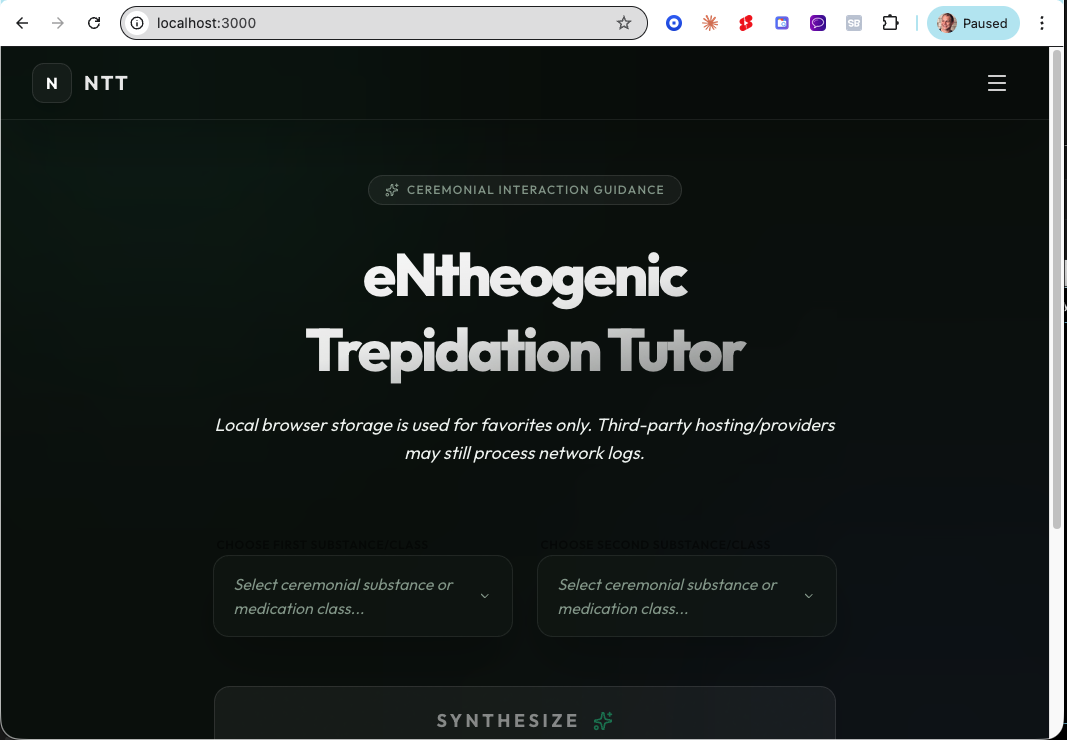
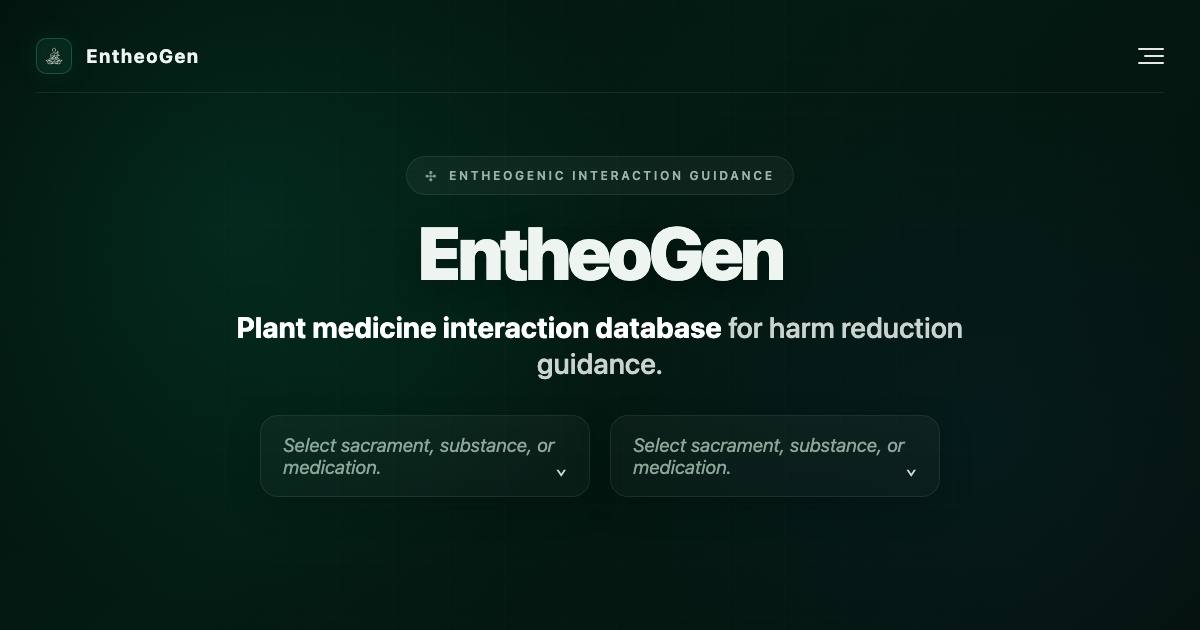
Refresh landing copy and SEO preview

diff --git a/src/App.tsx b/src/App.tsx
@@ -146,10 +146,10 @@ function SearchableSelect({
 
   return (
     <div className="space-y-2 relative" ref={containerRef}>
-      <label id={labelId} className="text-xs font-semibold uppercase tracking-wider text-black/50 ml-1">
+      <label id={labelId} className="ml-1 text-[11px] sm:text-xs font-semibold uppercase tracking-[0.18em] text-[var(--text-muted)]/95">
         {label}
       </label>
-      <div className="w-full glass-panel rounded-2xl px-4 sm:px-5 py-3.5 sm:py-4 flex items-center gap-3 focus-within:ring-1 focus-within:ring-white/20 transition-all disabled:opacity-50">
+      <div className="w-full glass-panel rounded-2xl px-4 sm:px-5 lg:px-4 py-3.5 sm:py-4 flex items-center gap-3 focus-within:ring-1 focus-within:ring-white/20 transition-all disabled:opacity-50">
         <input
           ref={inputRef}
           id={comboboxId}
@@ -174,7 +174,7 @@ function SearchableSelect({
           }}
           onKeyDown={handleKeyDown}
           placeholder={placeholder}
-          className={`w-full min-w-0 bg-transparent border-none outline-none ${selectedDrug && !isOpen ? 'text-[var(--text-primary)] font-medium' : 'text-[var(--text-muted)] italic'}`}
+          className={`w-full min-w-0 bg-transparent border-none outline-none text-sm sm:text-base lg:text-[0.95rem] leading-tight placeholder:text-[var(--text-muted)] placeholder:italic placeholder:text-sm sm:placeholder:text-base lg:placeholder:text-[0.95rem] ${selectedDrug && !isOpen ? 'text-[var(--text-primary)] font-medium' : 'text-[var(--text-muted)] italic'}`}
         />
         <ChevronDown className={`w-5 h-5 text-[var(--text-muted)] transition-transform duration-300 ${isOpen ? 'rotate-180' : ''}`} />
       </div>
@@ -425,8 +425,8 @@ export default function App() {
       </nav>
 
       {/* Main Content */}
-      <main className="max-w-2xl mx-auto px-6 pt-24 sm:pt-28 md:pt-32 pb-20 relative z-10">
-        <header className="text-center mb-10 sm:mb-16">
+      <main className="max-w-4xl mx-auto px-6 pt-24 sm:pt-28 md:pt-32 pb-20 relative z-10">
+        <header className="max-w-2xl mx-auto text-center mb-10 sm:mb-16">
           <motion.div
             initial={{ opacity: 0, scale: 0.9 }}
             animate={{ opacity: 1, scale: 1 }}
@@ -443,21 +443,13 @@ export default function App() {
           >
             EntheoGen<br />Plant Medicine<br />Interaction Guide
           </motion.h1>
-          <motion.p
-            initial={{ opacity: 0, y: 20 }}
-            animate={{ opacity: 1, y: 0 }}
-            transition={{ delay: 0.1 }}
-            className="mx-auto max-w-lg text-base sm:text-lg italic text-[var(--text-primary)]/80"
-          >
-            Local browser storage is used for favorites only. Third-party hosting/providers may still process network logs.
-          </motion.p>
         </header>
 
-        <section className="space-y-6 sm:space-y-8">
-          <div className="grid md:grid-cols-2 gap-5 sm:gap-6">
+        <section className="max-w-4xl mx-auto space-y-6 sm:space-y-8">
+          <div className="grid 2xl:grid-cols-2 gap-5 sm:gap-6">
             <SearchableSelect
               labelId="drug1-label"
-              label="Choose first substance/class"
+              label="Choose first substance class"
               value={drug1}
               onChange={setDrug1}
               isOpen={openSelect === 'drug1'}
@@ -465,11 +457,11 @@ export default function App() {
                 setOpenSelect((current) => (isOpen ? 'drug1' : current === 'drug1' ? null : current))
               }
               disabled={showResult}
-              placeholder="Select ceremonial substance or medication class..."
+              placeholder="Select sacrament, substance, or medication."
             />
             <SearchableSelect
               labelId="drug2-label"
-              label="Choose second substance/class"
+              label="Choose second substance class"
               value={drug2}
               onChange={setDrug2}
               isOpen={openSelect === 'drug2'}
@@ -477,7 +469,7 @@ export default function App() {
                 setOpenSelect((current) => (isOpen ? 'drug2' : current === 'drug2' ? null : current))
               }
               disabled={showResult}
-              placeholder="Select ceremonial substance or medication class..."
+              placeholder="Select sacrament, substance, or medication."
             />
           </div>
 
@@ -519,7 +511,7 @@ export default function App() {
               initial={{ opacity: 0, y: 40 }}
               animate={{ opacity: 1, y: 0 }}
               exit={{ opacity: 0, scale: 0.95 }}
-              className="mt-12 space-y-8"
+              className="max-w-2xl mx-auto mt-12 space-y-8"
             >
               {interaction && (
                 <div
@@ -560,7 +552,7 @@ export default function App() {
                       >
                         <Star className={`w-4 h-4 ${isFavorited ? 'fill-yellow-400 text-yellow-400' : ''}`} />
                         <span className="text-xs font-bold uppercase tracking-[0.15em]">
-                          {isFavorited ? 'Saved to Favorites' : 'Add to Favorites'}
+                          {isFavorited ? 'Saved to Favourites' : 'Add to Favourites'}
                         </span>
                       </motion.button>
                     </div>
@@ -659,7 +651,11 @@ export default function App() {
           )}
         </AnimatePresence>
 
-        <footer className="mt-32 pt-12 border-t border-white/5 text-center relative z-10">
+        <p className="mx-auto mt-24 max-w-xl text-center text-sm sm:text-base italic text-[var(--text-primary)]/75">
+          Local browser storage is used for favourites only. Third-party hosting providers may still process network logs.
+        </p>
+
+        <footer className="max-w-2xl mx-auto mt-32 pt-12 border-t border-white/5 text-center relative z-10">
           <div className="flex flex-col md:flex-row items-center justify-center gap-6 md:gap-12">
             <a
               href="https://www.newpsychonaut.com"
@@ -735,7 +731,7 @@ export default function App() {
                   <section className="space-y-6">
                     <div className="flex items-center gap-3 text-yellow-500/80 border-b border-white/5 pb-3">
                       <Star className="w-4 h-4 fill-current" />
-                      <h3 className="text-xs font-bold uppercase tracking-[0.2em] text-[var(--text-muted)]">Favorite Interactions</h3>
+                      <h3 className="text-xs font-bold uppercase tracking-[0.2em] text-[var(--text-muted)]">Favourite Interactions</h3>
                     </div>
                     <div className="grid gap-3">
                       {favorites.map(fav => {

diff --git a/index.html b/index.html
@@ -3,26 +3,29 @@
   <head>
     <meta charset="UTF-8" />
     <meta name="viewport" content="width=device-width, initial-scale=1.0" />
-    <title>EntheoGen | Ceremonial Psychedelic Interaction Guide</title>
+    <title>EntheoGen</title>
     <meta
       name="description"
-      content="EntheoGen provides evidence-based ceremonial psychedelic interaction guidance with explicit risk levels, source traceability, and uncertainty handling."
+      content="Plant medicine interaction database for harm reduction guidance."
     />
-    <meta property="og:title" content="EntheoGen | Ceremonial Psychedelic Interaction Guide" />
+    <link rel="canonical" href="https://www.entheogen.newpsychonaut.com" />
+    <meta property="og:title" content="EntheoGen" />
     <meta
       property="og:description"
-      content="Evidence-based interaction guidance for ceremonial psychedelics and medication classes. Educational harm-reduction tool."
+      content="Plant medicine interaction database for harm reduction guidance."
     />
     <meta property="og:type" content="website" />
-    <meta property="og:url" content="https://www.newpsychonaut.com" />
-    <meta property="og:image" content="/og-image.png" />
+    <meta property="og:url" content="https://www.entheogen.newpsychonaut.com" />
+    <meta property="og:image" content="https://www.entheogen.newpsychonaut.com/og-image.png" />
+    <meta property="og:image:width" content="1200" />
+    <meta property="og:image:height" content="630" />
     <meta name="twitter:card" content="summary_large_image" />
-    <meta name="twitter:title" content="EntheoGen | Ceremonial Psychedelic Interaction Guide" />
+    <meta name="twitter:title" content="EntheoGen" />
     <meta
       name="twitter:description"
-      content="Evidence-based interaction guidance for ceremonial psychedelics and medication classes."
+      content="Plant medicine interaction database for harm reduction guidance."
     />
-    <meta name="twitter:image" content="/og-image.png" />
+    <meta name="twitter:image" content="https://www.entheogen.newpsychonaut.com/og-image.png" />
   </head>
   <body>
     <div id="root"></div>
